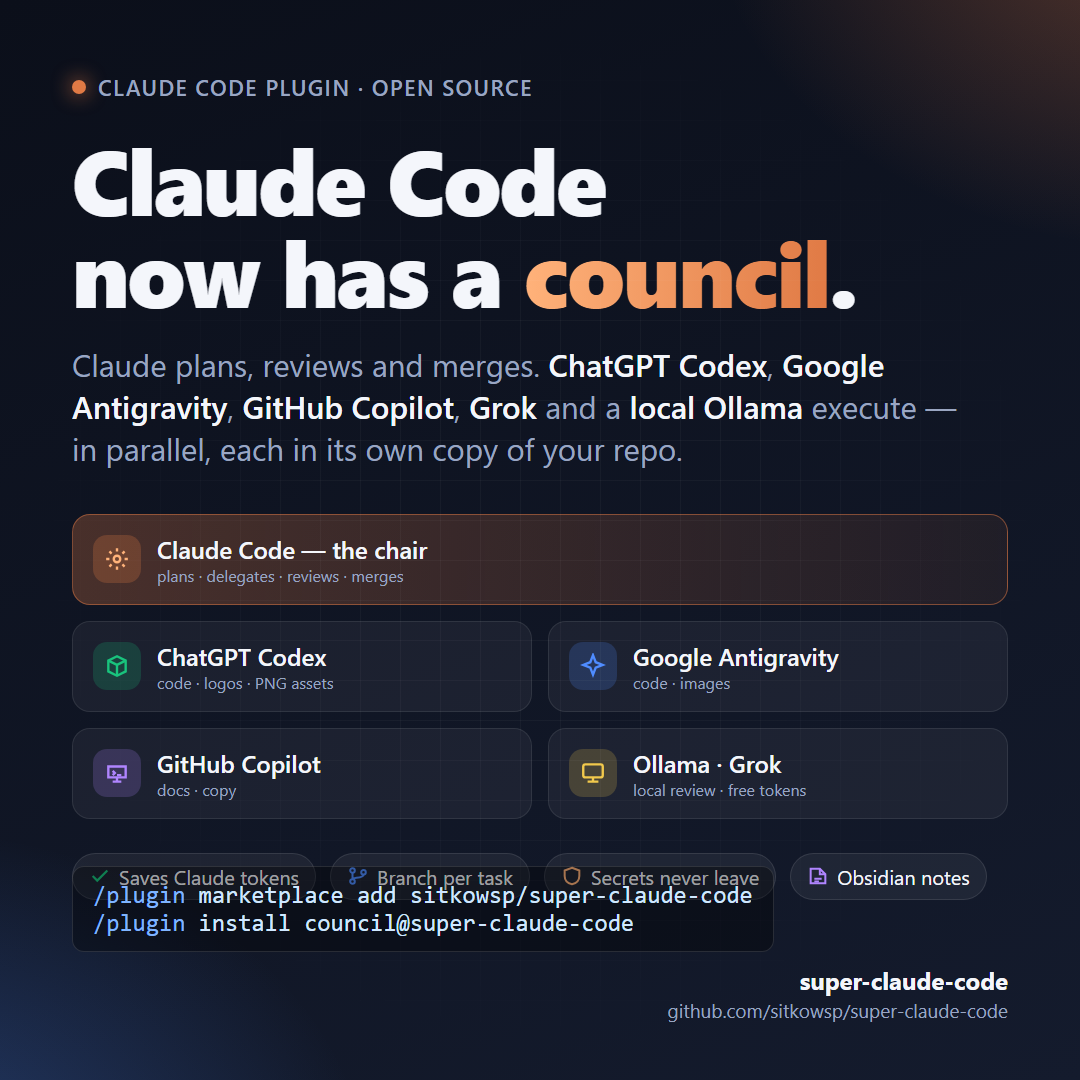
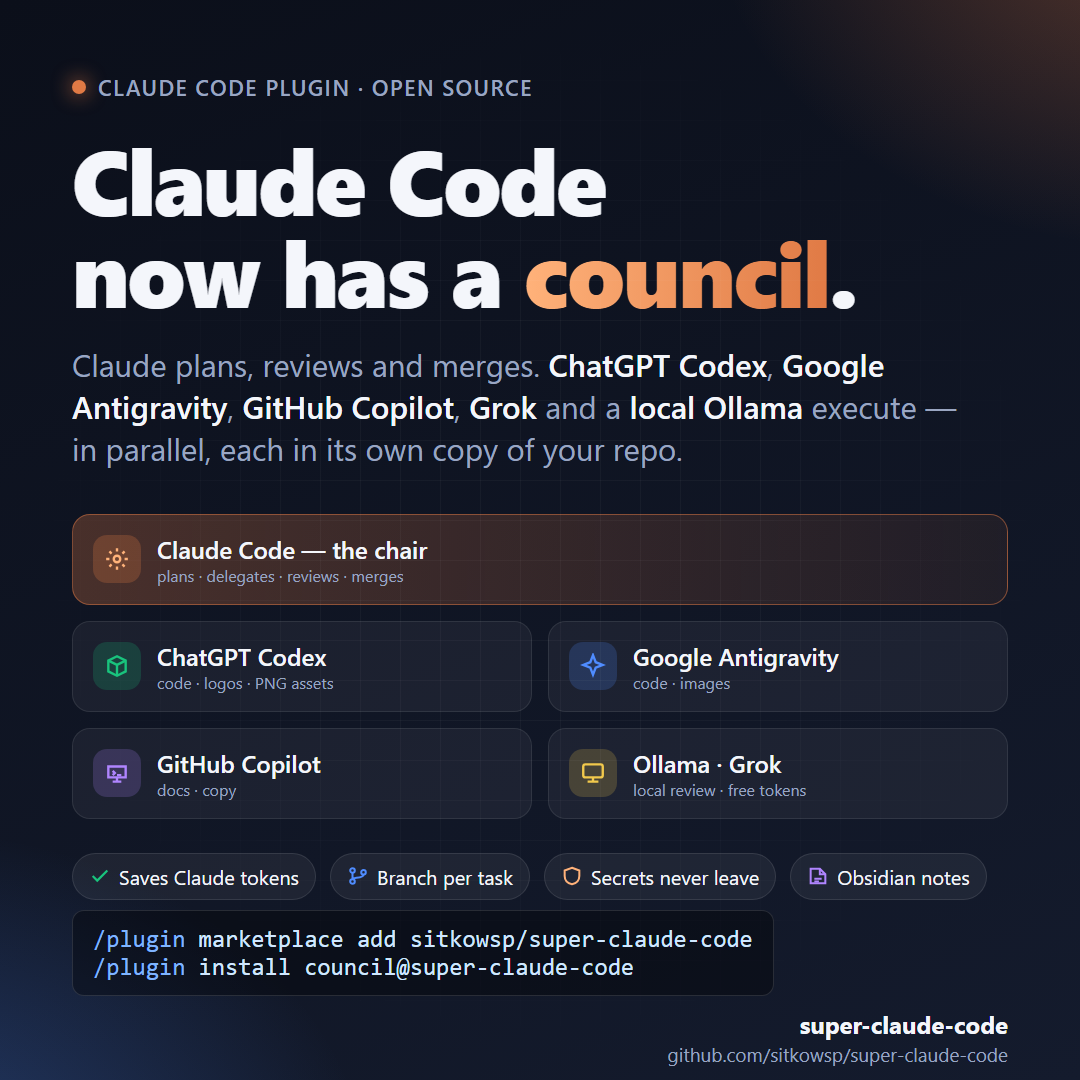
council: T-001 progress 80%

Changed region(s): [[0.0917, 0.7944, 0.7028, 0.9167], [0.6111, 0.8861, 0.9472, 1.0]]

diff --git a/docs/social/graphic-square.html b/docs/social/graphic-square.html
@@ -36,7 +36,7 @@
   .perk{display:inline-flex;align-items:center;gap:8px;font-size:20px;
     background:rgba(255,255,255,.06);border:1px solid rgba(255,255,255,.1);border-radius:999px;padding:9px 16px}
   .perk svg{width:22px;height:22px}
-  .foot{position:absolute;left:72px;right:72px;bottom:24px;display:flex;flex-direction:column;align-items:flex-end;gap:12px}
+  .foot{position:absolute;left:72px;right:72px;bottom:12px;display:flex;flex-direction:column;align-items:flex-end;gap:12px}
   .cmd{font-family:Consolas,"Cascadia Mono",monospace;font-size:24px;color:#cfe7ff;background:rgba(0,0,0,.35);
     border:1px solid rgba(255,255,255,.12);border-radius:12px;padding:14px 20px;align-self:flex-start}
   .cmd span{color:#7fb4ff}
